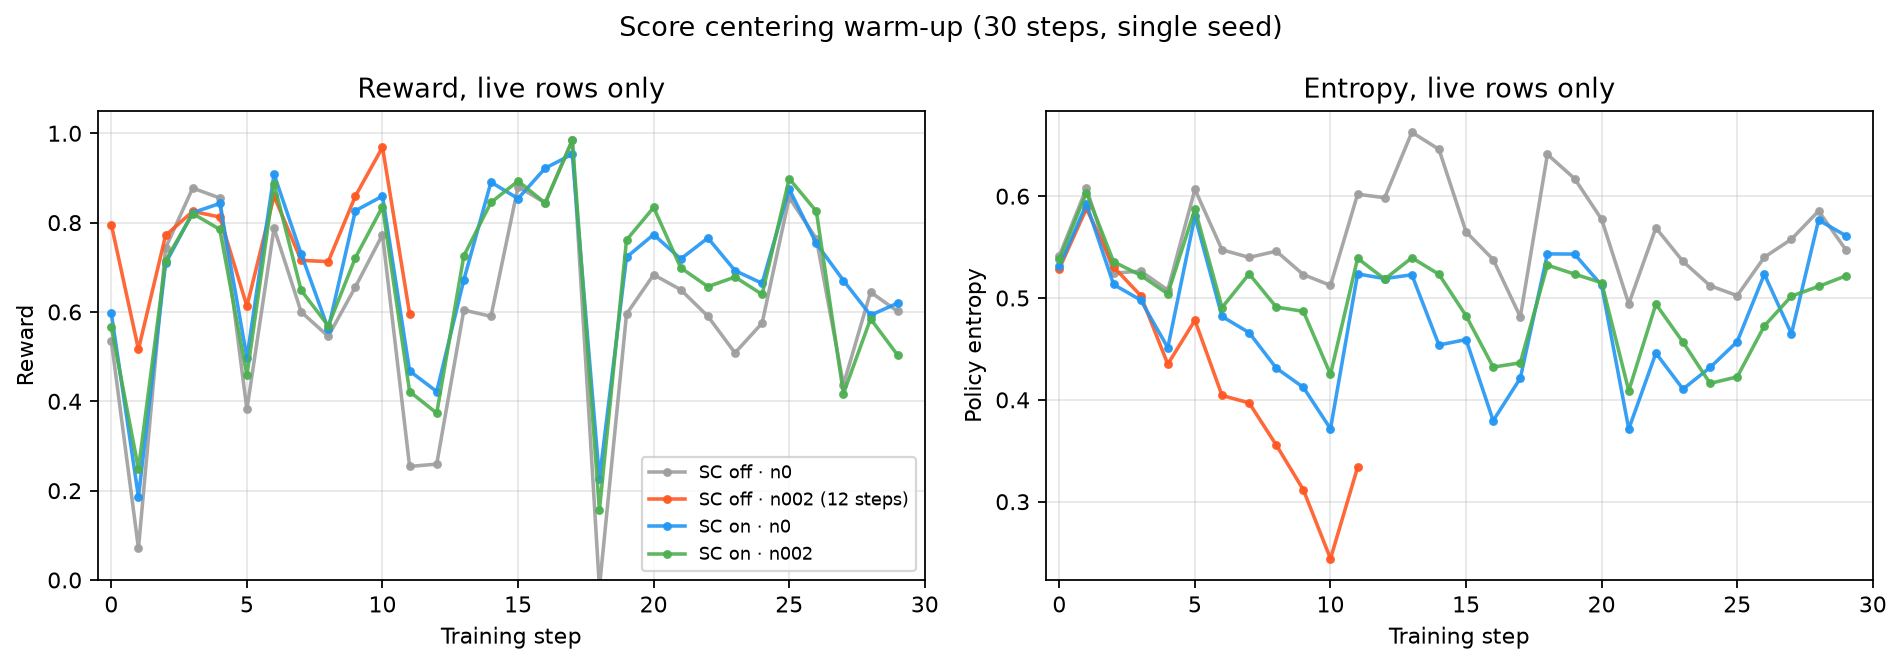
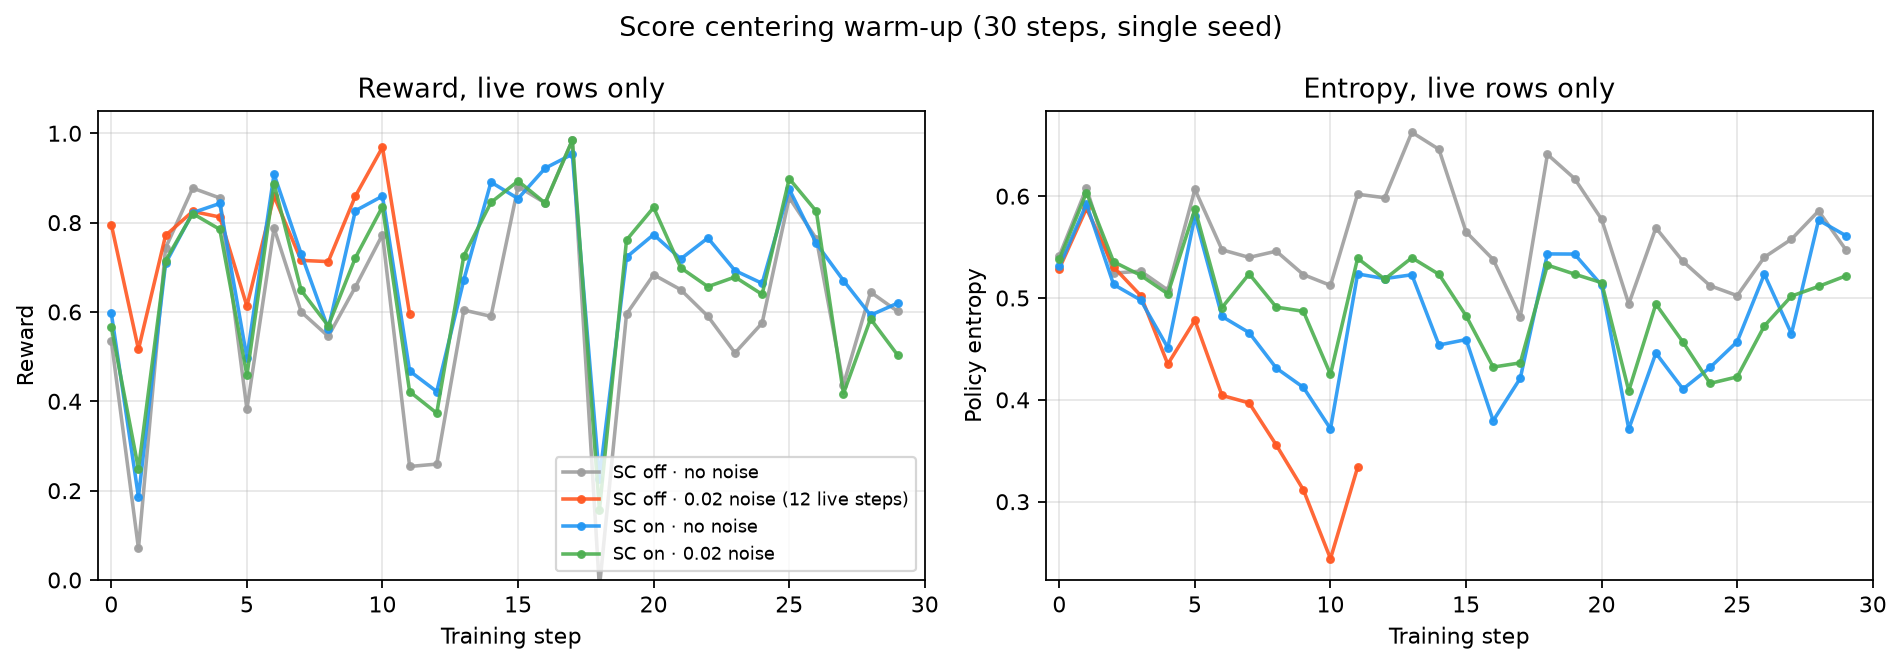
docs: label the warm-up arms by injected noise level
Arms are SC on/off crossed with the injected noise level: n0 is no noise
and n002 is 0.02 Gaussian noise. Use those names in the figure legend and
in the plotting script docstring.

Changed region(s): [[0.2792, 0.6617, 0.4343, 0.8722]]

diff --git a/docs/immgration/v5/plot_metrics.py b/docs/immgration/v5/plot_metrics.py
@@ -1,6 +1,9 @@
 #!/usr/bin/env python3
 """Plot the 30-step score-centering warm-up arms from metrics.csv.
 
+Arms are SC on/off plus the noise level injected to emulate sampler drift:
+``n0`` = no noise, ``n002`` = 0.02 Gaussian noise.
+
 Only ``src == live`` rows are plotted: the CSV also carries a
 ``snapshot-0131`` block for one arm that comes from a different source and has
 no entropy column, so mixing it in would fabricate a continuation.
@@ -18,10 +21,10 @@ matplotlib.use("Agg")
 import matplotlib.pyplot as plt
 
 ARMS = [
-    ("sc-off-n0", "SC off · n0", "#9E9E9E", "-"),
-    ("sc-off-n002", "SC off · n002 (12 steps)", "#FF5722", "-"),
-    ("sc-on-n0", "SC on · n0", "#2196F3", "-"),
-    ("sc-on-n002", "SC on · n002", "#4CAF50", "-"),
+    ("sc-off-n0", "SC off · no noise", "#9E9E9E", "-"),
+    ("sc-off-n002", "SC off · 0.02 noise (12 live steps)", "#FF5722", "-"),
+    ("sc-on-n0", "SC on · no noise", "#2196F3", "-"),
+    ("sc-on-n002", "SC on · 0.02 noise", "#4CAF50", "-"),
 ]
 
 
